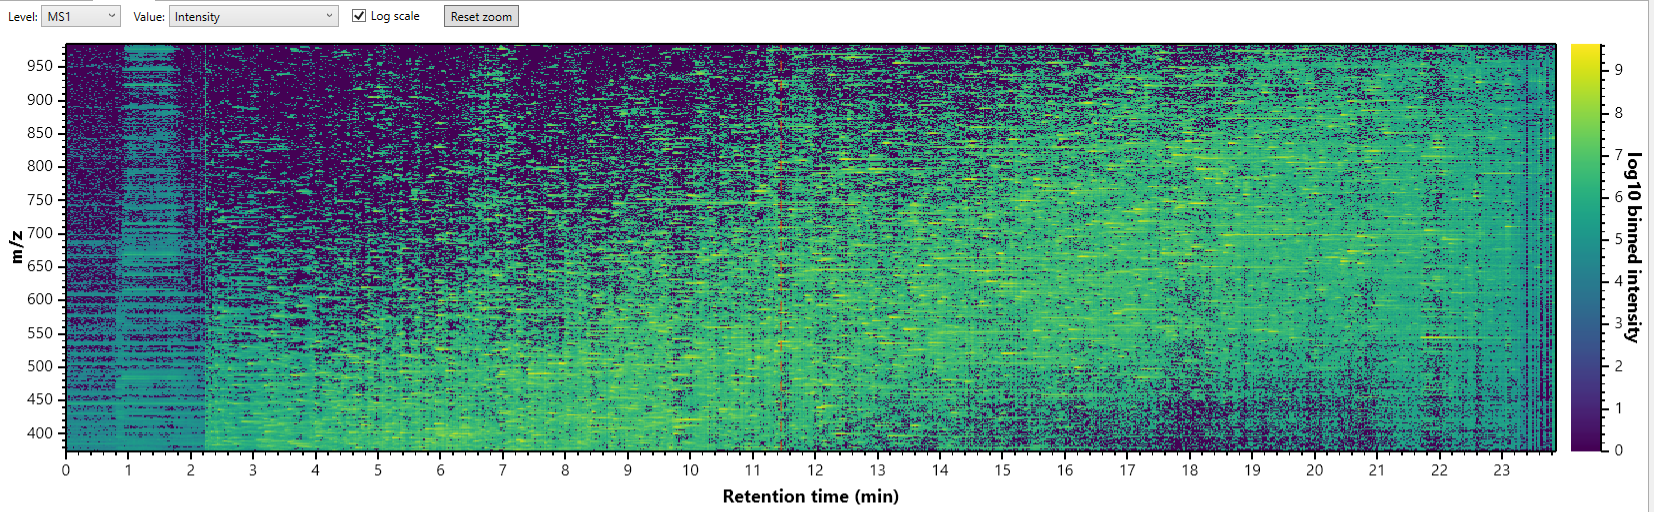
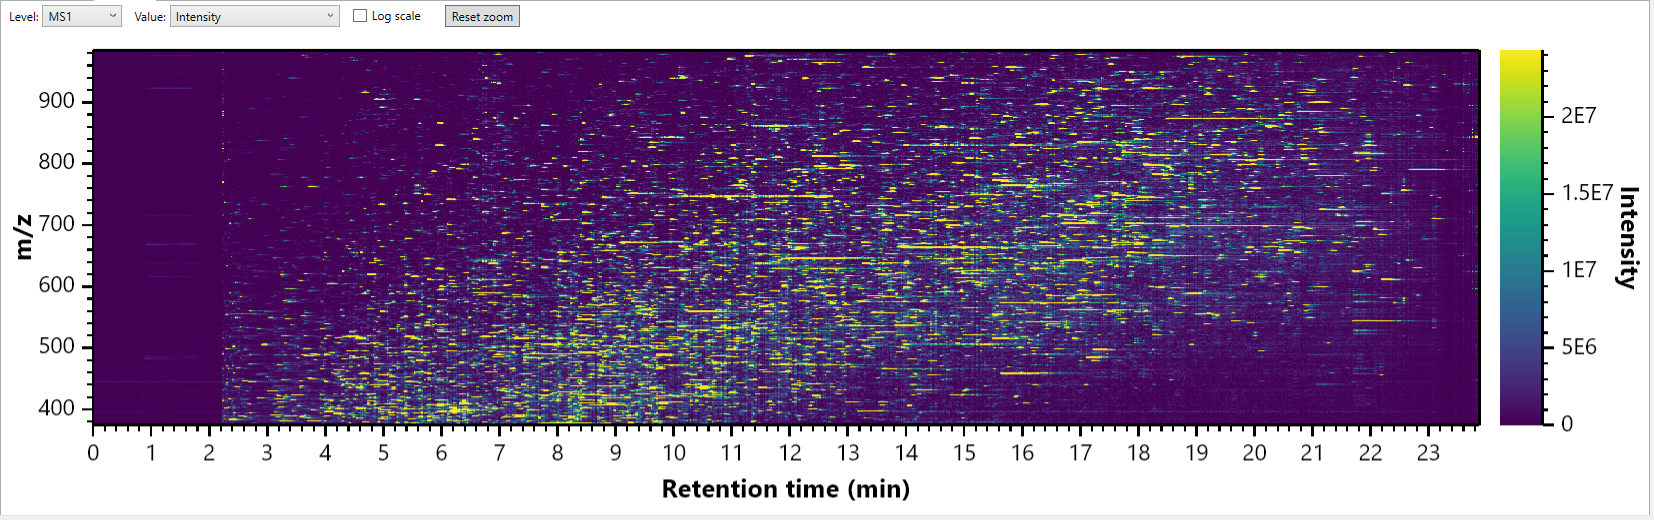
Changed the heatmap color scales: Turbo for counts, saturated linear Viridis for intensity (#4)
* Changed peptides per spectrum to a linear scale; Log scale applies to intensity only
* Changed peptides per spectrum and assigned fraction to Turbo; intensity is linear Viridis
  topped at the 95th percentile of cells with signal, cached per grid
* Simplified and capitalized the color bar labels; scientific color bar ticks
* Fixed the fake Skyline server crashing when a client leaves before its answer

diff --git a/src/Glimpse.App/MainWindow.xaml b/src/Glimpse.App/MainWindow.xaml
@@ -183,7 +183,7 @@
                                     <ComboBoxItem Content="Assigned fraction" />
                                     <ComboBoxItem Content="Peptides per spectrum" />
                                 </ComboBox>
-                                <CheckBox x:Name="HeatLogCheck" Content="Log scale" IsChecked="True" Margin="12,0" VerticalAlignment="Center"
+                                <CheckBox x:Name="HeatLogCheck" Content="Log scale" IsChecked="False" Margin="12,0" VerticalAlignment="Center"
                                           Checked="OnViewOptionChanged" Unchecked="OnViewOptionChanged" />
                                 <Button Content="Reset zoom" Margin="12,0,0,0" Padding="6,0" Click="OnResetHeatZoom" ToolTip="Show the whole plot again (or double-click or middle-click the plot)" />
                             </StackPanel>

diff --git a/src/Glimpse.App/MainWindow.Heatmap.cs b/src/Glimpse.App/MainWindow.Heatmap.cs
@@ -10,6 +10,12 @@ public partial class MainWindow
     private ScottPlot.Plottables.VerticalLine? _heatMarker;
     private ScottPlot.Panels.ColorBar? _colorBar;
 
+    /// <summary>
+    /// The saturation level of each intensity grid, worked out once: a grid does not change after the pass,
+    /// and the quantile sorts every cell with signal (about a million on an Astral MS1 map).
+    /// </summary>
+    private readonly System.Runtime.CompilerServices.ConditionalWeakTable<float[,], object> _saturationLevels = new();
+
     private int HeatLevel => HeatLevelCombo.SelectedIndex == 1 ? 2 : 1;
 
     private void InitHeatmap()
@@ -41,20 +47,20 @@ public partial class MainWindow
         HeatmapGrid grid;
         float[,] values;
         string label;
-        var log = HeatLogCheck.IsChecked == true;
+        var saturation = double.NaN;
+        var log = HeatmapScale.IsLog((HeatmapValue)valueMode, HeatLogCheck.IsChecked == true);
         switch (valueMode)
         {
             case 1 when signals is not null:
                 grid = HeatLevel == 1 ? signals.Ms1Fraction : signals.Ms2Fraction;
                 values = grid.Values;
-                log = false;
-                label = HeatLevel == 1 ? "fraction of binned signal assigned" : "fraction of scan signal assigned";
+                label = "Fraction of signal assigned";
                 break;
             case 2 when signals is not null:
                 // MS2 only (OnHeatValueChanged): the peptides co-isolated in each window.
                 grid = signals.Ms2Count;
                 values = grid.Values;
-                label = (log ? "log10 " : "") + "peptides per spectrum";
+                label = "Peptides per spectrum";
                 break;
             case 1 or 2:
                 plot.Title(_document.Precursors.Count == 0 ? "Needs a Skyline document with results" : "Measuring document signals...");
@@ -63,7 +69,13 @@ public partial class MainWindow
             default:
                 grid = HeatLevel == 1 ? _run.Heatmaps.Ms1 : _run.Heatmaps.Ms2;
                 values = grid.For(Units);
-                label = (log ? "log10 " : "") + (HeatLevel == 1 ? "binned " : "scan ") + (Units == Core.Data.IntensityUnits.Ions ? "ions" : "intensity");
+                label = (Units == Core.Data.IntensityUnits.Ions ? "Ions" : "Intensity") + (log ? " (Log10)" : "");
+                if (!log)
+                {
+                    // Linear: the top color at a high quantile, so a few huge peaks do not leave the rest dark.
+                    saturation = (double)_saturationLevels.GetValue(values,
+                        g => HeatmapScale.Quantile(g, HeatmapScale.IntensitySaturationQuantile));
+                }
                 break;
         }
         if (grid.IsEmpty)
@@ -74,11 +86,14 @@ public partial class MainWindow
         }
 
         var heat = plot.Add.Heatmap(ToDisplay(values, log));
-        heat.Colormap = new ScottPlot.Colormaps.Viridis();
+        heat.Colormap = Glimpse.Plotting.FigureStyle.HeatmapColormap(intensity: valueMode == (int)HeatmapValue.Intensity);
+        if (saturation > 0)
+            heat.ManualRange = new ScottPlot.Range(0, saturation);
         heat.NaNCellColor = Colors.Transparent;
         heat.Extent = new CoordinateRect(left: grid.RtLow, right: grid.RtHigh, bottom: grid.MzLow, top: grid.MzHigh);
         _colorBar = plot.Add.ColorBar(heat);
         Glimpse.Plotting.FigureStyle.StyleAxis(_colorBar.Axis);
+        _colorBar.Axis.TickGenerator = new ScottPlot.TickGenerators.NumericAutomatic { LabelFormatter = Glimpse.Plotting.FigureStyle.TickLabel };
         _colorBar.Label = label;
         plot.Title("");
         plot.Axes.Left.Label.Text = HeatLevel == 1 ? "m/z" : "Isolation window m/z";
@@ -114,10 +129,13 @@ public partial class MainWindow
 
     /// <summary>
     /// Peptides per spectrum is an MS2 measure, the peptides co-isolated in each window, so choosing it
-    /// moves the level to MS2 and greys out MS1; any other value makes MS1 available again.
+    /// moves the level to MS2 and greys out MS1; any other value makes MS1 available again. Only intensity
+    /// is drawn on a log scale, so the Log scale box is greyed out for the others.
     /// </summary>
     private void OnHeatValueChanged(object sender, System.Windows.Controls.SelectionChangedEventArgs e)
     {
+        if (HeatLogCheck is not null)
+            HeatLogCheck.IsEnabled = HeatmapScale.OffersLog((HeatmapValue)Math.Max(0, HeatValueCombo.SelectedIndex));
         var peptidesPerSpectrum = HeatValueCombo.SelectedIndex == 2;
         HeatMs1Item.IsEnabled = !peptidesPerSpectrum;
         if (peptidesPerSpectrum && HeatLevelCombo.SelectedIndex != 1)

diff --git a/tests/Glimpse.Tests/HeatmapTests.cs b/tests/Glimpse.Tests/HeatmapTests.cs
@@ -7,6 +7,48 @@ namespace Glimpse.Tests;
 /// <summary>Exact cell values of the intensity heatmaps on a hand-built run.</summary>
 public class HeatmapTests
 {
+    [Fact]
+    public void TheSaturationQuantileCountsOnlyCellsWithSignal()
+    {
+        // Ten cells with signal, 10 to 100, among empty (0), missing (NaN) and negative cells.
+        var grid = new float[,]
+        {
+            { 0, 90, 20, 100, float.NaN },
+            { 40, 10, 70, -5, 0 },
+            { 30, 80, 60, 50, float.PositiveInfinity },
+        };
+        Assert.Equal(90, HeatmapScale.Quantile(grid, 0.90));    // nearest rank: the 9th of 10
+        Assert.Equal(100, HeatmapScale.Quantile(grid, 0.95));   // rounds up to the 10th
+        Assert.Equal(50, HeatmapScale.Quantile(grid, 0.50));
+        Assert.Equal(10, HeatmapScale.Quantile(grid, 0.0));     // the smallest, not below it
+        Assert.Equal(100, HeatmapScale.Quantile(grid, 1.0));
+        Assert.Equal(10, HeatmapScale.Quantile(grid, -1));      // clamped
+        Assert.Equal(100, HeatmapScale.Quantile(grid, 2));
+        Assert.Equal(double.NaN, HeatmapScale.Quantile(new float[,] { { 0, float.NaN }, { -1, 0 } }, 0.9));
+        Assert.Equal(double.NaN, HeatmapScale.Quantile(new float[0, 0], 0.9));
+        Assert.Equal(7, HeatmapScale.Quantile(new float[,] { { 7 } }, 0.9));
+    }
+
+    [Fact]
+    public void OnlyIntensityIsDrawnOnALogScale()
+    {
+        Assert.True(HeatmapScale.IsLog(HeatmapValue.Intensity, logRequested: true));
+        Assert.False(HeatmapScale.IsLog(HeatmapValue.Intensity, logRequested: false));
+        // Peptides per spectrum (a few to a few tens) and the assigned fraction (0-1) are always linear.
+        Assert.False(HeatmapScale.IsLog(HeatmapValue.PeptidesPerSpectrum, logRequested: true));
+        Assert.False(HeatmapScale.IsLog(HeatmapValue.AssignedFraction, logRequested: true));
+
+        Assert.True(HeatmapScale.OffersLog(HeatmapValue.Intensity));
+        Assert.False(HeatmapScale.OffersLog(HeatmapValue.AssignedFraction));
+        Assert.False(HeatmapScale.OffersLog(HeatmapValue.PeptidesPerSpectrum));
+
+        // A linear intensity map tops its color scale at the 95th percentile of the cells with signal.
+        Assert.Equal(0.95, HeatmapScale.IntensitySaturationQuantile);
+
+        // The enum follows the window's Value list: Intensity, Assigned fraction, Peptides per spectrum.
+        Assert.Equal(new[] { 0, 1, 2 }, new[] { (int)HeatmapValue.Intensity, (int)HeatmapValue.AssignedFraction, (int)HeatmapValue.PeptidesPerSpectrum });
+    }
+
     private static SpectrumData Ms1(double rt, double[] mz, double[] intensity, float it) =>
         FakeSource.Spectrum(0, 1, rt, mz, intensity, it, double.NaN, double.NaN);
 

diff --git a/tests/Glimpse.Tests/SkylineConnectionTests.cs b/tests/Glimpse.Tests/SkylineConnectionTests.cs
@@ -92,9 +92,17 @@ internal sealed class FakeSkylineServer : IDisposable
                 }
             }
             var bytes = Encoding.UTF8.GetBytes(response);
-            pipe.Write(bytes, 0, bytes.Length);
-            pipe.Flush();
-            pipe.WaitForPipeDrain();
+            try
+            {
+                pipe.Write(bytes, 0, bytes.Length);
+                pipe.Flush();
+                pipe.WaitForPipeDrain();
+            }
+            catch (IOException)
+            {
+                // The client gave up while the handler ran (a request Glimpse abandoned after its timeout):
+                // nobody is left to answer, and throwing would end the server thread and crash the test host.
+            }
             // Skyline closes the pipe after each request; so does this.
         }
     }
@@ -154,6 +162,35 @@ public sealed class SkylineConnectionTests : IDisposable
         var skyline = SkylineConnection.FromArguments(new[] { server.RawName })!;
         Assert.Equal("Skyline-daily 26.1", skyline.GetVersion());
         Assert.Equal(1, server.Connections);
+    }
+
+    [Fact]
+    public void TheFakeServerOutlivesAClientThatLeavesBeforeItsAnswer()
+    {
+        using var handlerStarted = new ManualResetEventSlim();
+        using var release = new ManualResetEventSlim();
+        using var server = new FakeSkylineServer((method, _) =>
+        {
+            if (method == "GetDocumentPath")
+            {
+                handlerStarted.Set();
+                release.Wait(TimeSpan.FromSeconds(30));
+            }
+            return "Skyline-daily 26.1";
+        });
+        using (var leaver = new NamedPipeClientStream(".", server.PipeName, PipeDirection.InOut))
+        {
+            leaver.Connect(5000);
+            leaver.ReadMode = PipeTransmissionMode.Message;
+            var request = Encoding.UTF8.GetBytes("{\"jsonrpc\":\"2.0\",\"method\":\"GetDocumentPath\",\"id\":1}");
+            leaver.Write(request, 0, request.Length);
+            Assert.True(handlerStarted.Wait(TimeSpan.FromSeconds(10)));
+        }
+        release.Set();   // the answer now goes to a closed pipe
+
+        var skyline = SkylineConnection.FromArguments(new[] { server.RawName })!;
+        Assert.Equal("Skyline-daily 26.1", skyline.GetVersion());
+        Assert.Equal(2, server.Connections);
     }
 
     [Fact]

diff --git a/src/Glimpse.Core/Heatmaps/HeatmapValue.cs b/src/Glimpse.Core/Heatmaps/HeatmapValue.cs
@@ -1,0 +1,49 @@
+namespace Glimpse.Core.Heatmaps;
+
+/// <summary>What a heatmap cell shows, in the order of the window's Value list.</summary>
+public enum HeatmapValue
+{
+    Intensity,
+    AssignedFraction,
+    PeptidesPerSpectrum,
+}
+
+public static class HeatmapScale
+{
+    /// <summary>
+    /// Whether cells are drawn as log10(1 + value). Only intensity, which spans orders of magnitude, takes
+    /// the log scale the user asks for. The assigned fraction runs 0-1, and peptides per spectrum counts a
+    /// few to a few tens (Skyline-PRISM draws it linear too): both are always linear.
+    /// </summary>
+    public static bool IsLog(HeatmapValue value, bool logRequested) =>
+        value == HeatmapValue.Intensity && logRequested;
+
+    /// <summary>Whether the log-scale choice applies to this value (the window greys it out otherwise).</summary>
+    public static bool OffersLog(HeatmapValue value) => value == HeatmapValue.Intensity;
+
+    /// <summary>
+    /// On a linear intensity heatmap, the share of cells with signal drawn below the top of the color scale.
+    /// A handful of very intense peaks would otherwise set the scale and leave everything else dark: the top
+    /// color is set at this quantile instead, and the brighter cells saturate.
+    /// </summary>
+    public const double IntensitySaturationQuantile = 0.95;
+
+    /// <summary>
+    /// The value at quantile <paramref name="q"/> (0-1) of the grid's cells that have signal (finite and
+    /// above zero), the nearest-rank way; NaN when no cell has signal.
+    /// </summary>
+    public static double Quantile(float[,] values, double q)
+    {
+        var signal = new List<float>(values.Length);
+        foreach (var v in values)
+        {
+            if (v > 0 && float.IsFinite(v))
+                signal.Add(v);
+        }
+        if (signal.Count == 0)
+            return double.NaN;
+        signal.Sort();
+        var rank = (int)Math.Ceiling(Math.Clamp(q, 0, 1) * signal.Count) - 1;
+        return signal[Math.Clamp(rank, 0, signal.Count - 1)];
+    }
+}

diff --git a/src/Glimpse.Plotting/FigureStyle.cs b/src/Glimpse.Plotting/FigureStyle.cs
@@ -30,6 +30,14 @@ public static class FigureStyle
     /// <summary>XIC line width: heavy for a few traces, hairlines when hundreds overlap and density is the point.</summary>
     public static float XicWidth(int traceCount) => traceCount > 200 ? 1f : traceCount > 20 ? 1.5f : 2.5f;
 
+    /// <summary>
+    /// A heatmap's color scale. Peptide counts and assigned fractions use Turbo, the high-contrast map
+    /// Skyline-PRISM offers for picking out fine structure in sparse values. Intensity keeps Viridis, on a
+    /// linear scale with its brightest cells saturated (see HeatmapScale.IntensitySaturationQuantile).
+    /// </summary>
+    public static IColormap HeatmapColormap(bool intensity) =>
+        intensity ? new ScottPlot.Colormaps.Viridis() : new ScottPlot.Colormaps.Turbo();
+
     /// <summary>The plot size, in device-independent pixels, the sizes above are chosen for.</summary>
     public const double ReferenceWidth = 1000, ReferenceHeight = 400;
 

diff --git a/tests/Glimpse.Tests/PlottingTests.cs b/tests/Glimpse.Tests/PlottingTests.cs
@@ -199,6 +199,8 @@ public class FigureStyleTests
         Assert.Equal(1.5f, FigureStyle.XicWidth(21));
         Assert.Equal(1.5f, FigureStyle.XicWidth(200));
         Assert.Equal(1f, FigureStyle.XicWidth(201));
+        Assert.IsType<ScottPlot.Colormaps.Viridis>(FigureStyle.HeatmapColormap(intensity: true));
+        Assert.IsType<ScottPlot.Colormaps.Turbo>(FigureStyle.HeatmapColormap(intensity: false));
         Assert.Equal(2f, FigureStyle.TraceWidth);
 
         // Text and lines grow with the plot's area, from 1000 x 400 up, at most 2.5 times.

diff --git a/release-notes/RELEASE_NOTES_next.md b/release-notes/RELEASE_NOTES_next.md
@@ -4,6 +4,15 @@ One-sentence summary of the release (written at release time).
 
 ## New Features
 
+- The peptides-per-spectrum heatmap is drawn on a linear scale, as in Skyline-PRISM: it counts a few to a few
+  tens of peptides, which a log scale only compressed. Log scale now applies to the intensity heatmap only, and
+  is greyed out for the other values.
+- The peptides-per-spectrum and assigned-fraction heatmaps use the Turbo color scale (Skyline-PRISM's
+  high-contrast option), so sparse values stand out.
+- The intensity heatmap is linear by default, in Viridis, with the top of its color scale at the 95th
+  percentile of the cells with signal: the brightest 5% saturate instead of leaving the rest dark. Log scale
+  is still available. Color bar labels are capitalized and simpler ("Intensity (Log10)", "Peptides per
+  spectrum", "Fraction of signal assigned").
 - Plot text and lines grow with the plot: a maximized window, or a large screen at 100% scaling, shows the
   same figure scaled up (up to 2.5 times) instead of small text and hairline traces on a large canvas.
 

diff --git a/README.md b/README.md
@@ -80,13 +80,14 @@ run (intensity zoomed to the bulk of the peaks).*
 m/z by retention time, for MS1 (peaks binned by m/z) or MS2 (each scan's signal across its isolation
 window). Click any cell to open that spectrum. Three values can be shown:
 
-- **Intensity**, on a log scale.
+- **Intensity**, linear with the brightest 5% of cells saturated (so faint signal still shows), or on
+  a log scale.
 
   ![MS1 intensity heatmap](docs/images/heatmap-ms1-intensity.png)
 
 - **Peptides per spectrum** (MS2): how many document precursors are co-isolated in each MS2 scan,
   inside the precursor range Skyline extracts from it (by the document's isolation scheme) and inside
-  their integrated peak at that time. This shows where the method is crowded.
+  their integrated peak at that time, on a linear scale. This shows where the method is crowded.
 
   ![MS2 peptides-per-spectrum heatmap](docs/images/heatmap-ms2-peptides-per-spectrum.png)
 
